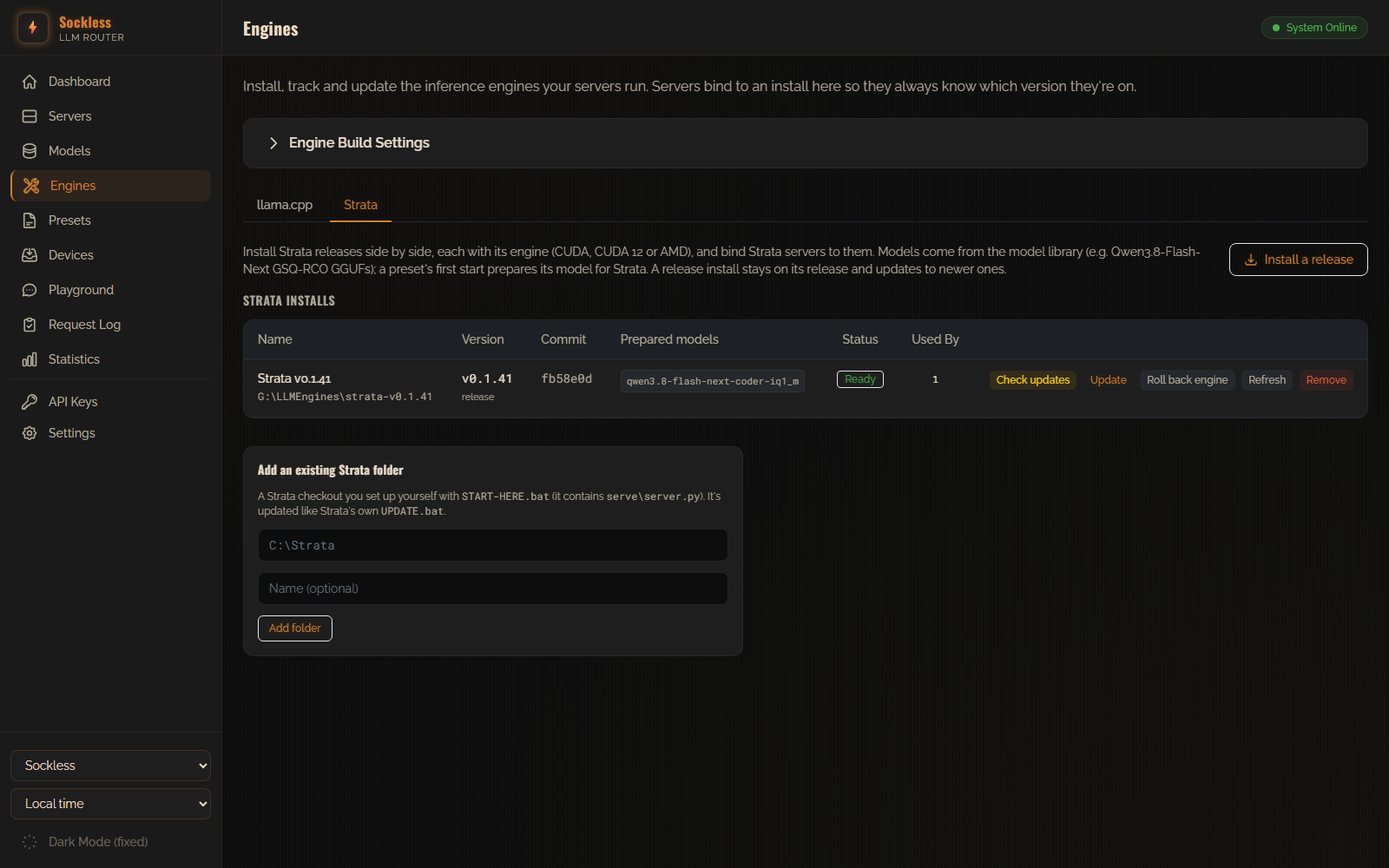
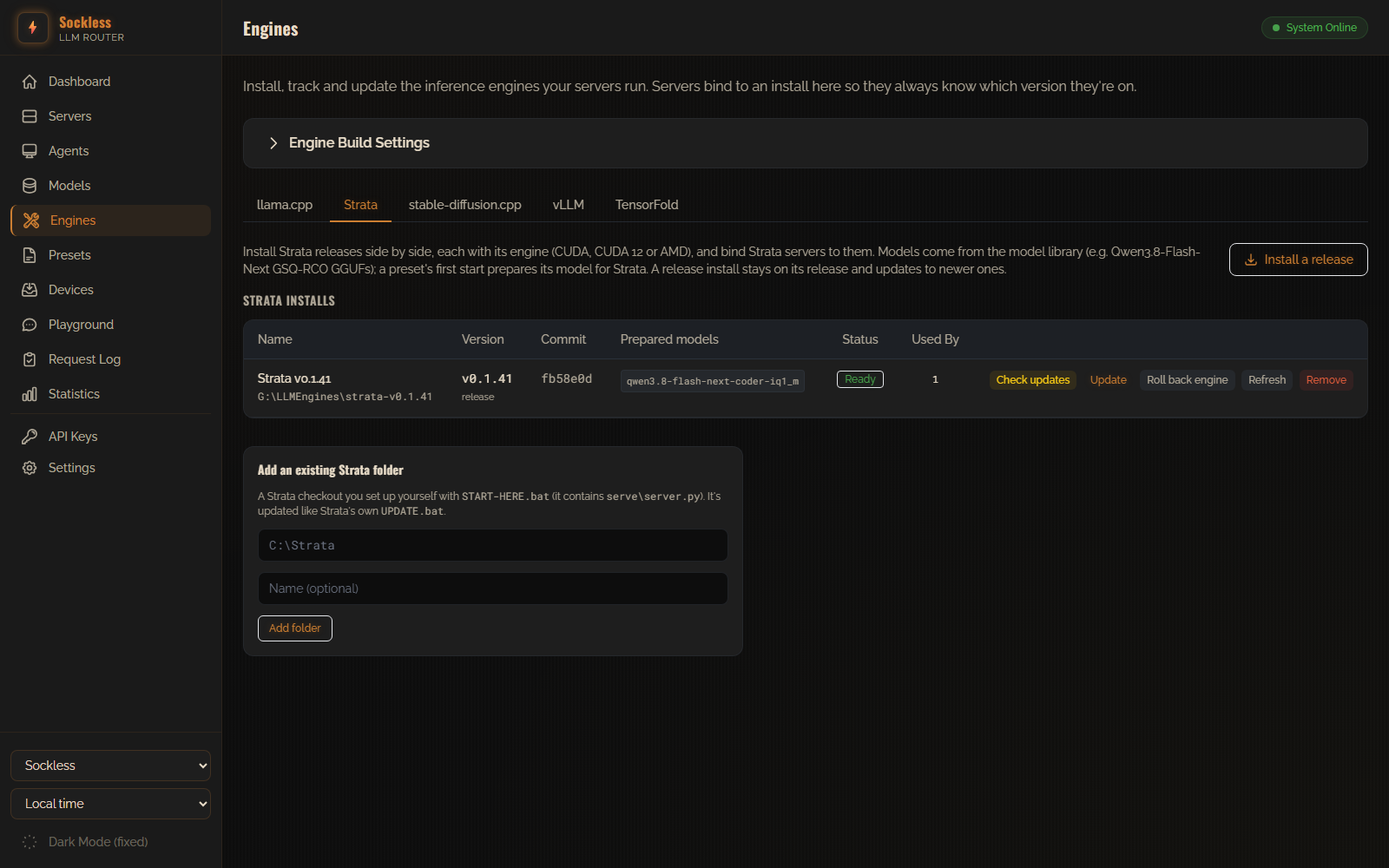
Document the full engine lineup and new dashboard pages in the README
Add a supported-engines table (llama.cpp, Strata, vLLM, TensorFold, stable-diffusion.cpp), cover the System One /v1/systemone decision API (Jev) and the new Decide page, and describe the Engines, Devices, model library checkpoint classification and agent notes. Update the architecture diagram, project-structure and API tables for all five engines, and refresh the dashboard screenshots.

diff --git a/README.md b/README.md
@@ -2,9 +2,25 @@
 
 A lightweight .NET-based routing layer for managing and load-balancing across multiple local LLM and image-generation inference servers.
 
+![Dashboard](docs/screenshots/dashboard-home.png)
+
+## Supported engines
+
+One OpenAI / Claude / Ollama-compatible endpoint in front of five inference engines, mixed freely across GPUs and machines. Each one is installed, updated and supervised from the dashboard's **Engines** page, so there's no separate setup per engine.
+
+| Engine | Serves | Models | Hardware | Installed from |
+|---|---|---|---|---|
+| [**llama.cpp**](https://github.com/ggml-org/llama.cpp) | Chat, embeddings, [System One](#system-one-decision-models-jev) decisions (Jev) | GGUF | CPU, CUDA, Vulkan, SYCL, OpenVINO, HIP/ROCm, Metal, CANN, MUSA | Official releases, or compiled from built-in recipes |
+| [**Strata**](https://github.com/Niko1221/Strata) | Chat (large MoE models on consumer GPUs) | Qwen3.8-Flash-Next GGUF | NVIDIA CUDA / CUDA 12, AMD | Releases, cloned with their own Python venv |
+| [**vLLM**](https://github.com/vllm-project/vllm) | Chat, with vLLM's own batching | Hugging Face checkpoints, presets from [recipes.vllm.ai](https://recipes.vllm.ai) | NVIDIA CUDA (Linux, or WSL on Windows), Intel XPU (Docker Desktop) | Self-contained `uv` venv per version, or a managed Docker image |
+| [**TensorFold**](https://github.com/ashhart/TensorFold) | Chat, with speculative decoding and prompt cache | Hugging Face checkpoints (MLX, NVFP4/FP8, EXL3, …) | NVIDIA CUDA, Apple Metal, AMD HIP, Intel XPU (Linux, or Docker Desktop on Windows) | Official releases (Linux, macOS), compiled from recipes (Windows), or a managed Docker image |
+| [**stable-diffusion.cpp**](https://github.com/leejet/stable-diffusion.cpp) | Images and video | GGUF / safetensors (SD 1.x–SDXL, SD3, Flux, Qwen-Image, Wan, …) | CPU, CUDA, Vulkan, ROCm, Metal, SYCL | Official releases, or compiled from built-in recipes |
+
+Per-engine setup: [llama.cpp](#using-the-dashboard) · [Strata](#strata-servers) · [vLLM](#vllm-servers) · [TensorFold](#tensorfold-servers) · [stable-diffusion.cpp](#image-generation-stable-diffusioncpp). Adding another engine is a matter of implementing a few interfaces; see [Adding another engine](#adding-another-engine).
+
 ## Overview
 
-LLM Router provides a unified interface to route requests across heterogeneous backend inference engines — [llama.cpp](https://github.com/ggml-org/llama.cpp) builds (CPU, CUDA, Vulkan, SYCL, ...) [Strata](https://github.com/Niko1221/Strata) and [vLLM](https://github.com/vllm-project/vllm) for text, [stable-diffusion.cpp](https://github.com/leejet/stable-diffusion.cpp) for images — running on different machines or GPUs. It features:
+LLM Router provides a unified interface to route requests across these heterogeneous backends, running on different machines or GPUs. It features:
 
 - **Multi-protocol API gateway** — Exposes OpenAI-compatible (`/v1/chat/completions`, `/v1/responses`, `/v1/models`), Claude-compatible (`/v1/messages`), and Ollama-compatible (`/api/chat`, `/api/generate`, `/api/tags`, ...) endpoints in front of your backend servers.
 - **Tool / function calling** — Passes OpenAI-style `tools`/`tool_choice` through to llama.cpp backends and translates the resulting tool calls back into Chat Completions or Responses API shapes.
@@ -14,11 +30,13 @@ LLM Router provides a unified interface to route requests across heterogeneous b
 - **Memory groups & idle unload** — Servers sharing a GPU form a group with a VRAM budget. Before a model loads, the least-recently-used idle servers in the group are stopped until its estimated footprint fits. Servers can also unload after N idle minutes.
 - **Image generation** — OpenAI `/v1/images/generations`, served by stable-diffusion.cpp presets with the same routing, fallbacks, memory groups, idle unload and queueing as chat. See [Image generation](#image-generation-stable-diffusioncpp).
 - **Embeddings** — OpenAI `/v1/embeddings` and Ollama `/api/embed` / `/api/embeddings`, served by presets launched with embeddings enabled.
+- **System One decisions (Jev)** — `POST /v1/systemone`, the TypeSafe/Jev-compatible decision API: native decision models (OpenJev, Laya, Kev, …) score typed questions about a state in one forward pass instead of generating text. Routed, queued and logged like chat, with a **Decide** page in the Playground. See [System One](#system-one-decision-models-jev).
 - **Health monitoring & auto-restart** — Background health checks detect failed or crashed backends and route around them.
-- **Model library with Hugging Face integration** — A local registry of GGUF models with metadata inspection, folder scanning, and search/download directly from the Hugging Face Hub (with live progress).
-- **Model presets** — Reusable llama.cpp launch configurations (sampling, context, GPU/threading, speculative decoding, LoRA, multimodal, etc.), optionally linked to a model-library entry so paths and metadata stay in sync.
+- **Model library with Hugging Face integration** — A local registry of GGUF files, safetensors files and checkpoint folders, with metadata inspection, folder scanning, and search/download directly from the Hugging Face Hub (with live progress). Each model shows which engines can run it.
+- **Device overview** — The Devices page lists the GPUs/NPUs on the machine, their VRAM and the compute APIs that likely work on them, and can enable or disable them in Windows.
+- **Model presets** — Reusable per-engine launch configurations (sampling, context, GPU/threading, speculative decoding, LoRA, multimodal, etc.), optionally linked to a model-library entry so paths and metadata stay in sync.
 - **Remote agents** — Run servers on other machines (Windows, Linux x64 and arm64). A one-line install command sets up an agent that connects back to the router, installs engines and models on its own disk when told to, supervises its backends, and updates itself whenever the router ships a new version. See [Remote agents](#remote-agents).
-- **Resilient backend supervision** — A separate wrapper process supervises each `llama-server` child process, so the router can restart without killing (or losing track of) running backends, and can live-swap models.
+- **Resilient backend supervision** — A separate wrapper process supervises each backend process, so the router can restart without killing (or losing track of) running backends, and can live-swap models.
 - **Request logging & stats dashboard** — Per-request API log with filtering, plus charts for throughput, latency, and context usage.
 - **Playground** — Chat with any preset from the dashboard, with per-reply time to first token, prompt/generation speed, cache hits and speculative-decoding acceptance; every reply can be recorded with a snapshot of the preset's launch settings, so runs under different settings can be compared side by side and exported as CSV.
 - **Razor Pages UI** — Web dashboard for managing servers, presets, the model library, request logs, and stats.
@@ -27,16 +45,20 @@ LLM Router provides a unified interface to route requests across heterogeneous b
 
 | | |
 |---|---|
-| **Dashboard** — live server status, slot usage, 24h traffic | **Servers** — llama.cpp and Strata instances, status, port |
-| ![Dashboard](docs/screenshots/dashboard-home.png) | ![Servers](docs/screenshots/servers.png) |
-| **Engines** — installed llama.cpp builds and source recipes | **Strata** — installs, prepared models, update/rollback |
-| ![Engines](docs/screenshots/engines.png) | ![Strata](docs/screenshots/strata.png) |
-| **Presets** — launch configurations per server | **Model Library** — local and Hugging Face GGUFs with quant/size/status |
-| ![Presets](docs/screenshots/presets.png) | ![Model Library](docs/screenshots/model-library.png) |
-| **Playground** — run history comparing TTFT and speeds per configuration | **API Keys** — model-scoped keys, enable/disable, regenerate |
-| ![Playground](docs/screenshots/playground.png) | ![API Keys](docs/screenshots/api-keys.png) |
+| **Servers** — llama.cpp, Strata, vLLM, TensorFold and stable-diffusion.cpp instances side by side | **Model Library** — GGUFs, safetensors and checkpoints, with the engines that can run each |
+| ![Servers](docs/screenshots/servers.png) | ![Model Library](docs/screenshots/model-library.png) |
+| **Engines: llama.cpp** — installed builds per backend and source recipes | **Engines: Strata** — installs, prepared models, update/rollback |
+| ![llama.cpp engines](docs/screenshots/engines.png) | ![Strata engines](docs/screenshots/strata.png) |
+| **Engines: vLLM** — WSL and Intel XPU Docker installs | **Engines: TensorFold** — releases, the Intel XPU Docker image and CUDA/HIP/XPU recipes |
+| ![vLLM engines](docs/screenshots/vllm.png) | ![TensorFold engines](docs/screenshots/tensorfold.png) |
+| **Engines: stable-diffusion.cpp** — release and compiled builds for image generation | **Devices** — GPUs on the machine, VRAM and likely compute APIs |
+| ![stable-diffusion.cpp engines](docs/screenshots/stable-diffusion-cpp.png) | ![Devices](docs/screenshots/devices.png) |
+| **Presets** — launch configurations per server | **Playground** — run history comparing TTFT and speeds per configuration |
+| ![Presets](docs/screenshots/presets.png) | ![Playground](docs/screenshots/playground.png) |
 | **Statistics** — throughput, latency, context usage | **Request Log** — per-request history with filtering |
 | ![Statistics](docs/screenshots/stats.png) | ![Request Log](docs/screenshots/request-log.png) |
+| **API Keys** — model-scoped keys, enable/disable, regenerate | |
+| ![API Keys](docs/screenshots/api-keys.png) | |
 
 ## Architecture
 
@@ -47,9 +69,9 @@ flowchart TB
     Routing["Routing Engine"]
     ServerMgr["Server Manager<br/>health monitoring + registry"]
     PresetMgr["Preset Manager / Model Library"]
-    Providers["Providers<br/>LlamaCppProvider (CPU/CUDA/Vulkan/SYCL) · StrataProvider"]
-    Wrapper["LR.Wrapper<br/>per-server process supervisor,<br/>survives router restarts, live model swap"]
-    Backend["llama-server / Strata serve/server.py"]
+    Providers["Providers<br/>llama.cpp · Strata · vLLM · TensorFold · stable-diffusion.cpp"]
+    Wrapper["LR.Wrapper / LR.Agent<br/>per-server process supervisor (local or remote),<br/>survives router restarts, live model swap"]
+    Backend["llama-server · Strata server.py · vllm serve ·<br/>tensorfold-native serve · sd-server"]
 
     UI --> Gateway
     Gateway --> Routing
@@ -66,8 +88,8 @@ flowchart TB
 |---|---|
 | **LR.Application** | ASP.NET Core web app — Razor Pages UI, API endpoint mappings (OpenAI/Claude/Ollama/Responses), SignalR hubs, background services, Windows Service hosting |
 | **LR.Core** | Core interfaces, EF Core models/migrations (SQLite), and services — routing engine, server/preset/model-library managers, Hugging Face client, request logging, wrapper protocol |
-| **LR.Providers** | Backend engine providers: a shared base (`ManagedServerProviderBase` — wrapper process management, health, OpenAI/Anthropic request + SSE handling) with one folder per engine (`LlamaCpp/`, `Strata/`, `Vllm/`) |
-| **LR.Wrapper** | Standalone process that launches and supervises a `llama-server` child process over a named-pipe protocol, so a router restart doesn't kill the backend (the supervisor itself lives in `LR.Core/Wrapper`) |
+| **LR.Providers** | Backend engine providers: a shared base (`ManagedServerProviderBase` — wrapper process management, health, OpenAI/Anthropic request + SSE handling) with one folder per engine (`LlamaCpp/`, `Strata/`, `Vllm/`, `TensorFold/`, `StableDiffusionCpp/`) |
+| **LR.Wrapper** | Standalone process that launches and supervises a backend server process over a named-pipe protocol, so a router restart doesn't kill the backend (the supervisor itself lives in `LR.Core/Wrapper`) |
 | **LR.Agent** | Self-contained service for remote machines: connects out to the router over a WebSocket, relays the wrapper protocol to per-server wrapper processes it launches (`LR.Agent wrapper …`), runs engine-install and model-download jobs locally, and updates itself from the router |
 
 ## API
@@ -75,12 +97,13 @@ flowchart TB
 | Protocol | Endpoints |
 |---|---|
 | OpenAI | `POST /v1/chat/completions` (streaming + non-streaming, tool calling), `POST /v1/embeddings`, `POST /v1/images/generations`, `GET /v1/models` |
+| System One (TypeSafe/Jev) | `POST /v1/systemone` (decision models; non-streaming) |
 | OpenAI Responses | `POST /v1/responses`, `GET /v1/responses/{id}`, `DELETE /v1/responses/{id}`, `POST /v1/responses/{id}/cancel` |
 | Claude | `POST /v1/messages` |
 | Ollama | `POST /api/chat`, `POST /api/generate`, `GET /api/tags`, `POST /api/show`, `POST /api/embed`, `POST /api/embeddings`, `GET /api/ps`, `GET /api/version` |
 | Misc | `GET /health`; SignalR hubs `/serverHub` and `/modelDownloadHub` for live UI updates |
 
-Protocols are toggled via `Gateway:EnabledProtocols` in configuration. Only `"function"`-type tools are supported for tool calling and the Responses API — OpenAI's built-in tools (web search, file search, code interpreter, computer use, image generation, MCP) and the Conversations API are not implemented.
+Protocols are toggled via `Gateway:EnabledProtocols` in configuration (`/v1/systemone` is served with the OpenAI endpoints). Only `"function"`-type tools are supported for tool calling and the Responses API — OpenAI's built-in tools (web search, file search, code interpreter, computer use, image generation, MCP) and the Conversations API are not implemented.
 
 ## Getting Started
 
@@ -90,6 +113,8 @@ Protocols are toggled via `Gateway:EnabledProtocols` in configuration. Only `"fu
 - Node.js/npm (to build the Tailwind CSS bundle — see below)
 - For llama.cpp servers: `llama-server`/`llama-server.exe` binaries for whichever backend(s) you plan to run (CPU/CUDA/Vulkan/SYCL) — downloaded/compiled from the Engines page or your own builds
 - For Strata servers: Git and Python 3.10+, plus a C++ toolchain (Visual Studio Build Tools on Windows, `build-essential` on Linux) when Strata has to compile its engine — always on Linux, and on Windows only if no ready-made engine fits the PC. The Strata releases page checks these and refuses an install until they're found (installed from the Engines page — see [Strata servers](#strata-servers))
+- For vLLM servers: Linux, or WSL on Windows (NVIDIA); Docker Desktop for Intel GPUs. See [vLLM servers](#vllm-servers)
+- For TensorFold servers: nothing on Linux x86_64/aarch64 (NVIDIA driver R580+) or Apple-silicon macOS, where releases install as-is. On Windows, the CUDA Toolkit 13 or ROCm plus the Visual Studio C++ build tools to compile from a recipe, or Docker Desktop for Intel GPUs. See [TensorFold servers](#tensorfold-servers)
 
 ### Building the frontend assets
 
@@ -173,11 +198,35 @@ updates, but you install them by replacing the files yourself.
 
 ## Using the dashboard
 
-- **Servers** — register backend server instances, pick their engine (llama.cpp, Strata, vLLM or stable-diffusion.cpp), point them at a build / Strata folder, start/stop/restart them, and view live logs and status.
+- **Servers** — register backend server instances, pick their engine (llama.cpp, Strata, vLLM, TensorFold or stable-diffusion.cpp), bind them to an install from the Engines page, start/stop/restart them, and view live logs and status.
 - **Presets** — define launch configurations (model path, context size, sampling parameters, GPU/threading, speculative decoding, LoRA, multimodal settings, etc.), optionally linked to a model-library entry so the model path and GGUF metadata stay in sync automatically.
-- **Model Library** — import existing `.gguf` (and, for diffusion models, `.safetensors`) files, scan a folder for unregistered models, or search and download models from the Hugging Face Hub with live progress; inspect GGUF metadata per model.
+- **Engines** — install official releases of each engine, compile llama.cpp / stable-diffusion.cpp / TensorFold from built-in or custom recipes, check for updates and update in place. Servers bind to an install, so they always know which version they run.
+- **Model Library** — import existing `.gguf` and `.safetensors` files or Hugging Face checkpoint folders (`config.json`, tokenizer and safetensors shards), scan a folder for unregistered models, or search and download models from the Hugging Face Hub with live progress; inspect metadata per model. Models are classified from their GGUF metadata as chat, embedding, reranker, decision, image or a companion file (projector, VAE, text encoder…), filterable by tab, and badged with the engines that can run them; a preset's model picker only offers fitting ones.
+- **Devices** — GPUs/NPUs on this machine with VRAM and likely compute APIs (CUDA, SYCL, Vulkan, HIP, OpenVINO), to help pick a preset's backend; devices can be disabled in Windows when they shouldn't be used for AI work.
 - **Stats** — throughput, latency, and context-usage charts.
-- **Playground** — chat with a preset and see per-reply performance stats (TTFT, prompt/generation tok/s, cached tokens, draft acceptance). Tag runs with a label (e.g. `fa=on ub=1024`), use *Repeat ×N* to average out noise, and compare configurations on the **Run history** page — runs are grouped by preset, label and a hash of the preset's generated command line, so editing a preset automatically starts a new group. Runs aren't subject to request-log retention.
+- **Playground** — chat with a preset and see per-reply performance stats (TTFT, prompt/generation tok/s, cached tokens, draft acceptance). Tag runs with a label (e.g. `fa=on ub=1024`), use *Repeat ×N* to average out noise, and compare configurations on the **Run history** page — runs are grouped by preset, label and a hash of the preset's generated command line, so editing a preset automatically starts a new group. Runs aren't subject to request-log retention. Decision presets open the **Decide** page and image/video presets the **Generate** page instead.
+
+### System One decision models (Jev)
+
+Decision models don't write an answer: given a **state** (a customer message, a document, a transcript, chat messages…) they score a set of typed **questions** in a single forward pass and return probabilities. llama.cpp serves them through its TypeSafe/Jev-compatible System One API, and the router puts that behind `POST /v1/systemone` with the same routing, auto-start, fallback, memory groups, queueing, API-key scoping and request logging as chat.
+
+- **Models.** A GGUF with `{arch}.decision.type` in its metadata (e.g. `openjev`, `laya`, `kev`) is classified as a decision model on import, and the type follows it into presets linked to it. Decision-only models are left out of chat model listings (`/v1/models`, `/api/tags`), so chat clients never pick one; `granite-switch` models also generate text, so they're offered for both.
+- **Questions.** Each question has a type: `choice` picks one of several options, `score` rates on a scale of 2–10 levels (lowest first), and `noul` gives the probability that the answer is yes.
+- **Requests.** The body is llama-server's own shape and is forwarded as is, and the response (`answers`, `usage`) comes back unchanged. Streaming isn't supported. llama-server's endpoint takes no `model`, so a Jev client may not send one; the router then uses the only decision preset that the API key can reach, and asks for `model` when there's more than one.
+
+```bash
+curl http://localhost:5053/v1/systemone -H "Content-Type: application/json" -d '{
+  "model": "openjev",
+  "state": "Customer message: I was charged twice for my order last week and nobody has replied.",
+  "questions": {
+    "route":   { "type": "choice", "instructions": "Which team should handle this?", "criteria": { "billing": null, "shipping": null, "technical": null } },
+    "angry":   { "type": "noul",   "instructions": "Is the customer angry?" },
+    "urgency": { "type": "score",  "instructions": "How urgent is this?", "criteria": ["can wait", "this week", "today", "right now"] }
+  }
+}'
+```
+
+**Playground → Decide** builds the same requests interactively: write the state (as text, or as JSON with *State is JSON*), add questions, or load the example above, and see each answer's probabilities. You can also edit the request as raw JSON.
 - **Request Log** — browse and filter logged API requests by protocol and time range.
 - **Settings** — app-level configuration, including the model library's root folder and Hugging Face API token.
 
@@ -229,6 +278,25 @@ A first start downloads the model into the Hugging Face cache of the machine the
 
 **WSL limitations.** WSL distros belong to a Windows user, so the router or agent has to run under that user's account, not as a service under LocalSystem (the default for both installers); otherwise it sees no distros. On a remote Windows agent the router also has to reach the server over the network, and WSL's default NAT networking only forwards to the Windows machine itself: use `networkingMode=mirrored` in that account's `.wslconfig` and allow the port through the Hyper-V firewall. Alternatively, a server can point at a native venv of the community [vllm-windows](https://github.com/SystemPanic/vllm-windows) fork (`.venv\Scripts\vllm.exe`), which needs no WSL but isn't installed or updated by the router.
 
+### TensorFold servers
+
+[TensorFold](https://github.com/ashhart/TensorFold) is a native inference server (`tensorfold-native serve`) for Hugging Face checkpoints in its own formats (MLX, NVFP4/FP8, EXL3, …), with external-drafter speculative decoding and a prompt cache. It serves OpenAI-compatible `/v1/chat/completions` and Anthropic-compatible `/v1/messages` itself, and the router reads token counts from its streamed usage events.
+
+1. **Engines → TensorFold**, one of:
+   - **Install a release**: official builds for Linux x86_64 / aarch64 (CUDA 13, NVIDIA driver R580+) and Apple-silicon macOS (Metal), checked for updates and updated in place like llama.cpp builds. Works on [agents](#remote-agents) too.
+   - **Compile from a recipe**: there's no Windows release, so built-in recipes build one with `zig build`: CUDA per GPU architecture (`sm_120` RTX 50 / RTX PRO Blackwell, `sm_121` GB10 / DGX Spark, `sm_80` A100, …), HIP per AMD architecture (`gfx1151` Strix Halo, …) and Intel XPU (Linux only, Level Zero). The pipeline fetches Zig and the other pinned build tools itself. CUDA needs the CUDA Toolkit 13 and, on Windows, the Visual Studio C++ build tools.
+   - **Intel GPU (XPU) in Docker** (Windows): builds the image `llm-router/tensorfold-xpu:managed`, which compiles TensorFold over a pinned Intel compute runtime (checked by SHA-256), then verifies it computes correctly on the GPU. Needs Docker Desktop on its WSL 2 engine, under an account that can use Docker (not a LocalSystem service). Not available on agents.
+2. **Models** (optional): download a checkpoint folder from the Hugging Face browser (`config.json`, tokenizer and safetensors shards). The Models page badges checkpoints as runnable by TensorFold (and by vLLM, unless they're MLX-quantized).
+3. **Servers**: create a server with engine **TensorFold**, bound to the install.
+4. **Presets**: set the model to a Hugging Face repo id (e.g. `TensorFold/Qwen3.8-27B-MLX-4bit`, optionally pinned with `@revision`), a library checkpoint, or a checkpoint folder on the server's machine. In the **TensorFold** section, set context, parallel requests, max tokens, thinking on/off, reasoning effort, vision, an optional **drafter** for speculative decoding (e.g. `z-lab/Qwen3.8-27B-DFlash2`, picked from the library or given as a folder / cached repo id), prompt cache size, extra arguments and environment variables.
+
+How it runs:
+
+- **Models are pulled on first start.** `serve` never downloads, so on Linux and macOS the router pulls a repo id into the Hugging Face cache of the server's machine first: when it's missing (the default), always, or never, per preset. A first start can download a whole checkpoint, so the startup timeout is hours. On a Windows source build the server launches directly, so pull the repo id first. Gated models use the Hugging Face token from the model library settings.
+- **Fixed served name.** Every server runs as `router-model` and the router rewrites each request's `model` to it, so clients keep using the preset's name or aliases.
+- **Capacity and memory groups.** TensorFold has no `/props` or `/slots`; the router reads the resolved context window from `/v1/models` and limits in-flight requests to the preset's parallel count (default 8). Checkpoints aren't single files to measure, so set **Memory needed (GB)** for memory-group budgeting.
+- **Intel XPU in Docker.** Each server is a container named after its port, removed when the server stops. A model folder on a local drive is mounted read-only; repo ids go into the `llm-router-hf-cache` volume, shared with vLLM's Intel image. The image sets `NEOReadDebugKeys=1` and `AllowUnrestrictedSize=1`, without which loading fails through WSL with `ZE_RESULT_ERROR_UNSUPPORTED_SIZE`. If loading aborts in `wddm_memory_manager.cpp`, set the preset's **Intel WDDM chunk size** to 4096. On XPU the prompt cache uses GPU memory, so lower it if a long context doesn't fit. Tested on an Arc Pro B70 with Qwen3.8-27B GPTQ int4.
+
 ### Image generation (stable-diffusion.cpp)
 
 [stable-diffusion.cpp](https://github.com/leejet/stable-diffusion.cpp) servers generate images and follow the same server → engine → model → preset flow as the LLM engines:
@@ -253,7 +321,7 @@ Image presets are kept apart from chat: they don't appear in `/api/tags` or `/v1
 ### Remote agents
 
 An agent is a small service on another machine that runs servers for this router. Everything is
-controlled from the router: the agent installs llama.cpp / stable-diffusion.cpp / vLLM builds and models
+controlled from the router: the agent installs llama.cpp / stable-diffusion.cpp / vLLM / TensorFold builds and models
 on its own disk, starts and stops backends, and updates itself.
 
 **Adding a machine.** Open **Agents**, check the router URL (it must be reachable from the other
@@ -304,7 +372,7 @@ logs are live there too.
   dev version, so connected agents pick the build up right away. Use `-Rids linux-x64` to build only one.
 
 Limitations: Strata servers can't run on agents yet (its model preparation runs Python against local
-files). Agent traffic uses the admin port. With a separate routing port, agents connect to `Gateway:Port`.
+files), and neither can TensorFold's Intel XPU Docker image. Agent traffic uses the admin port. With a separate routing port, agents connect to `Gateway:Port`.
 The backends' HTTP port has no authentication of its own, so keep agents on a trusted network.
 
 ### Adding another engine
